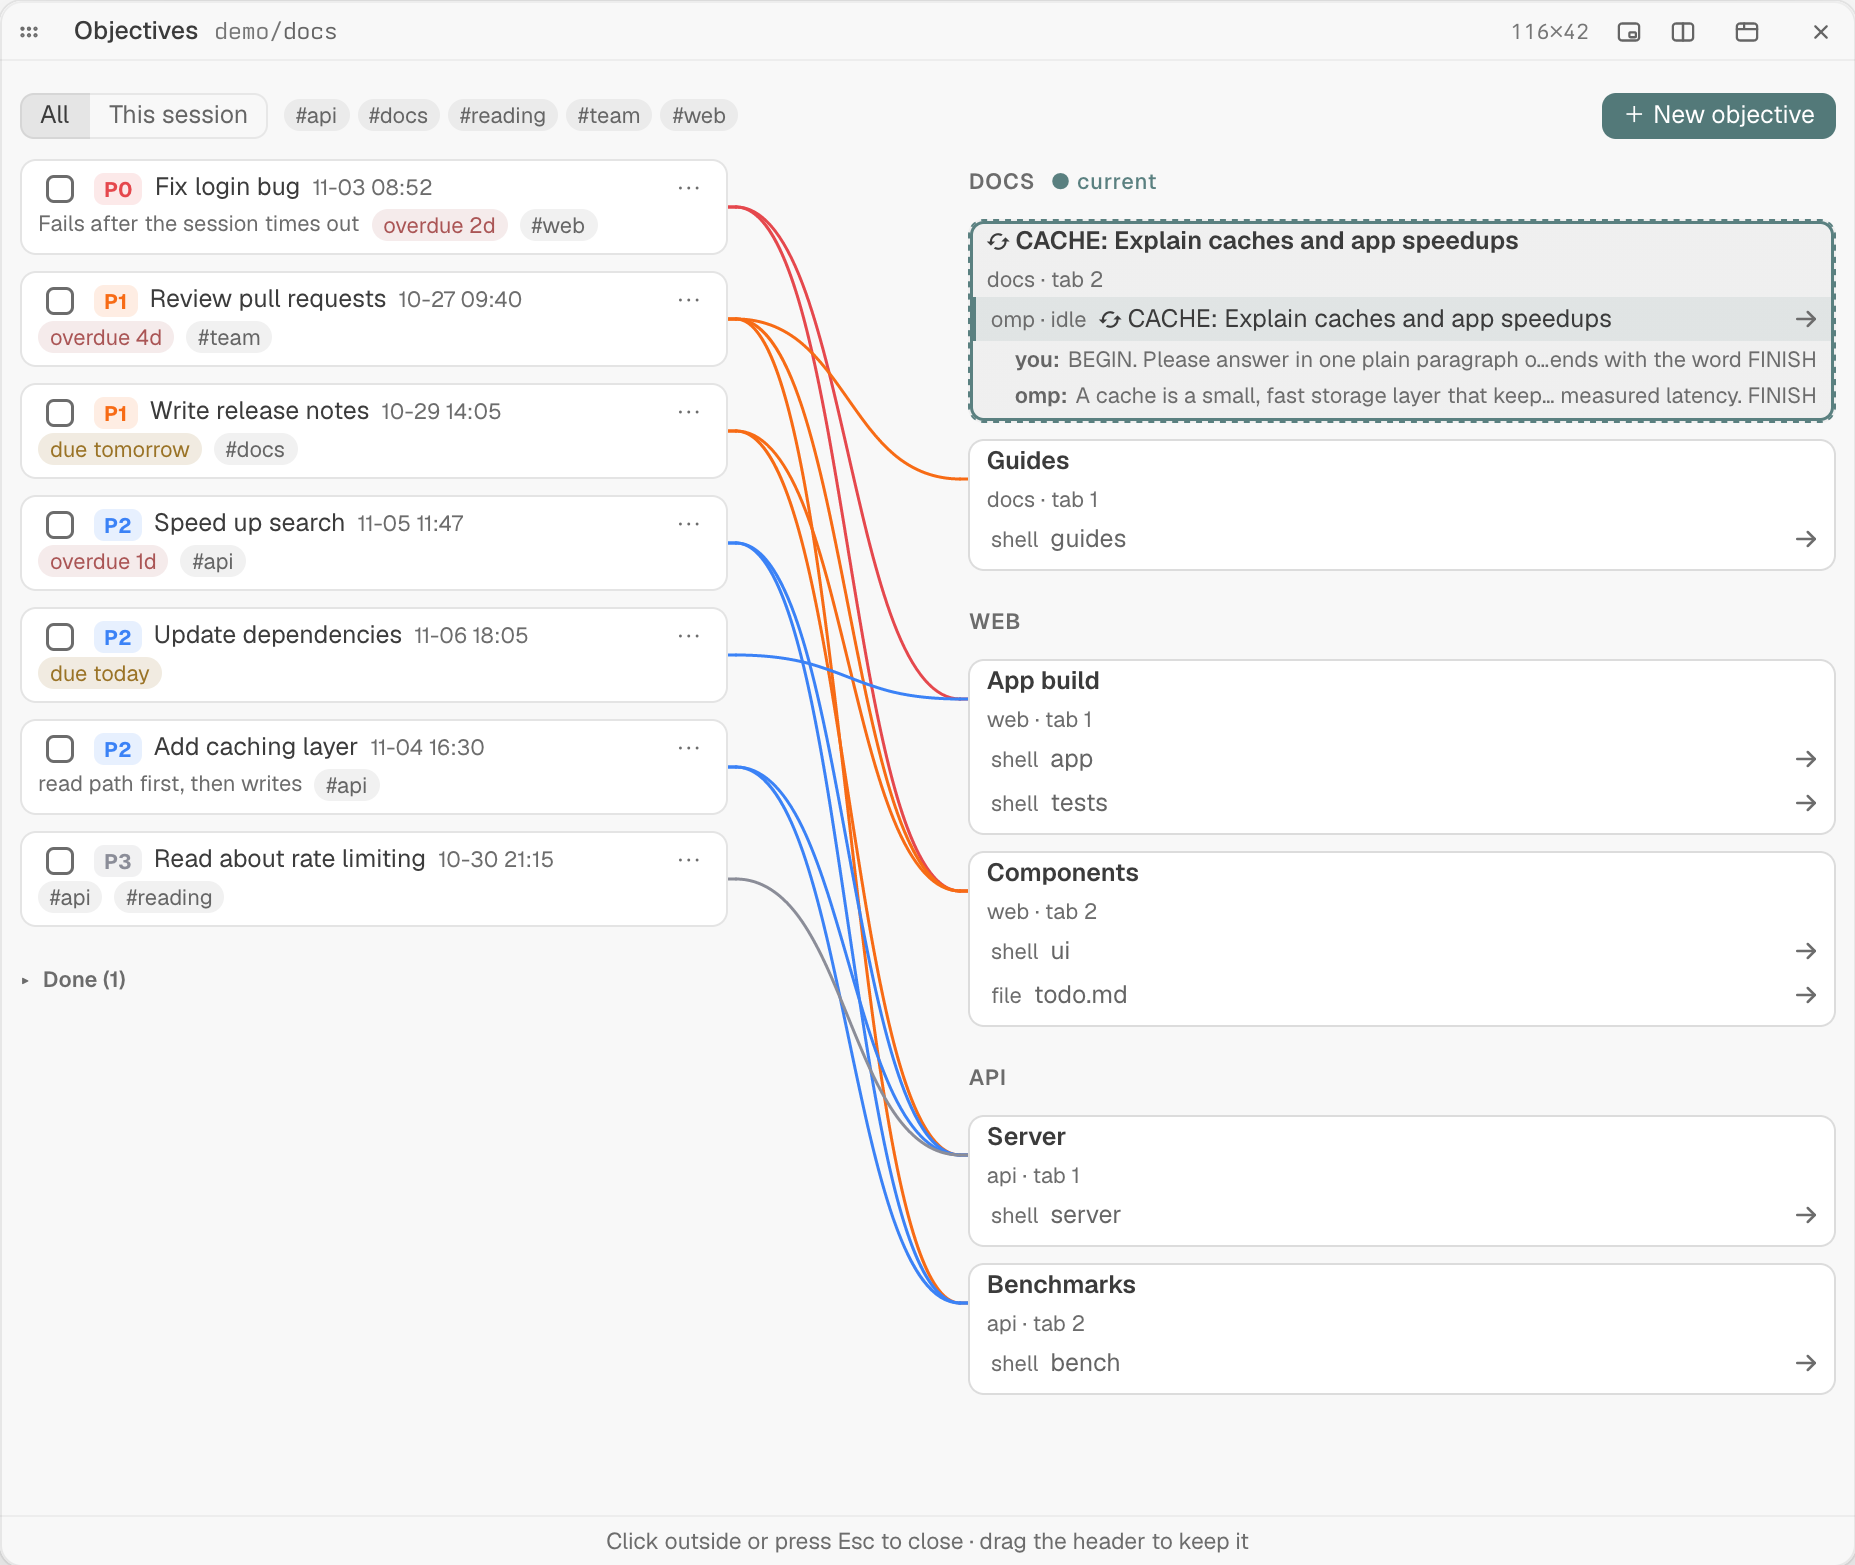
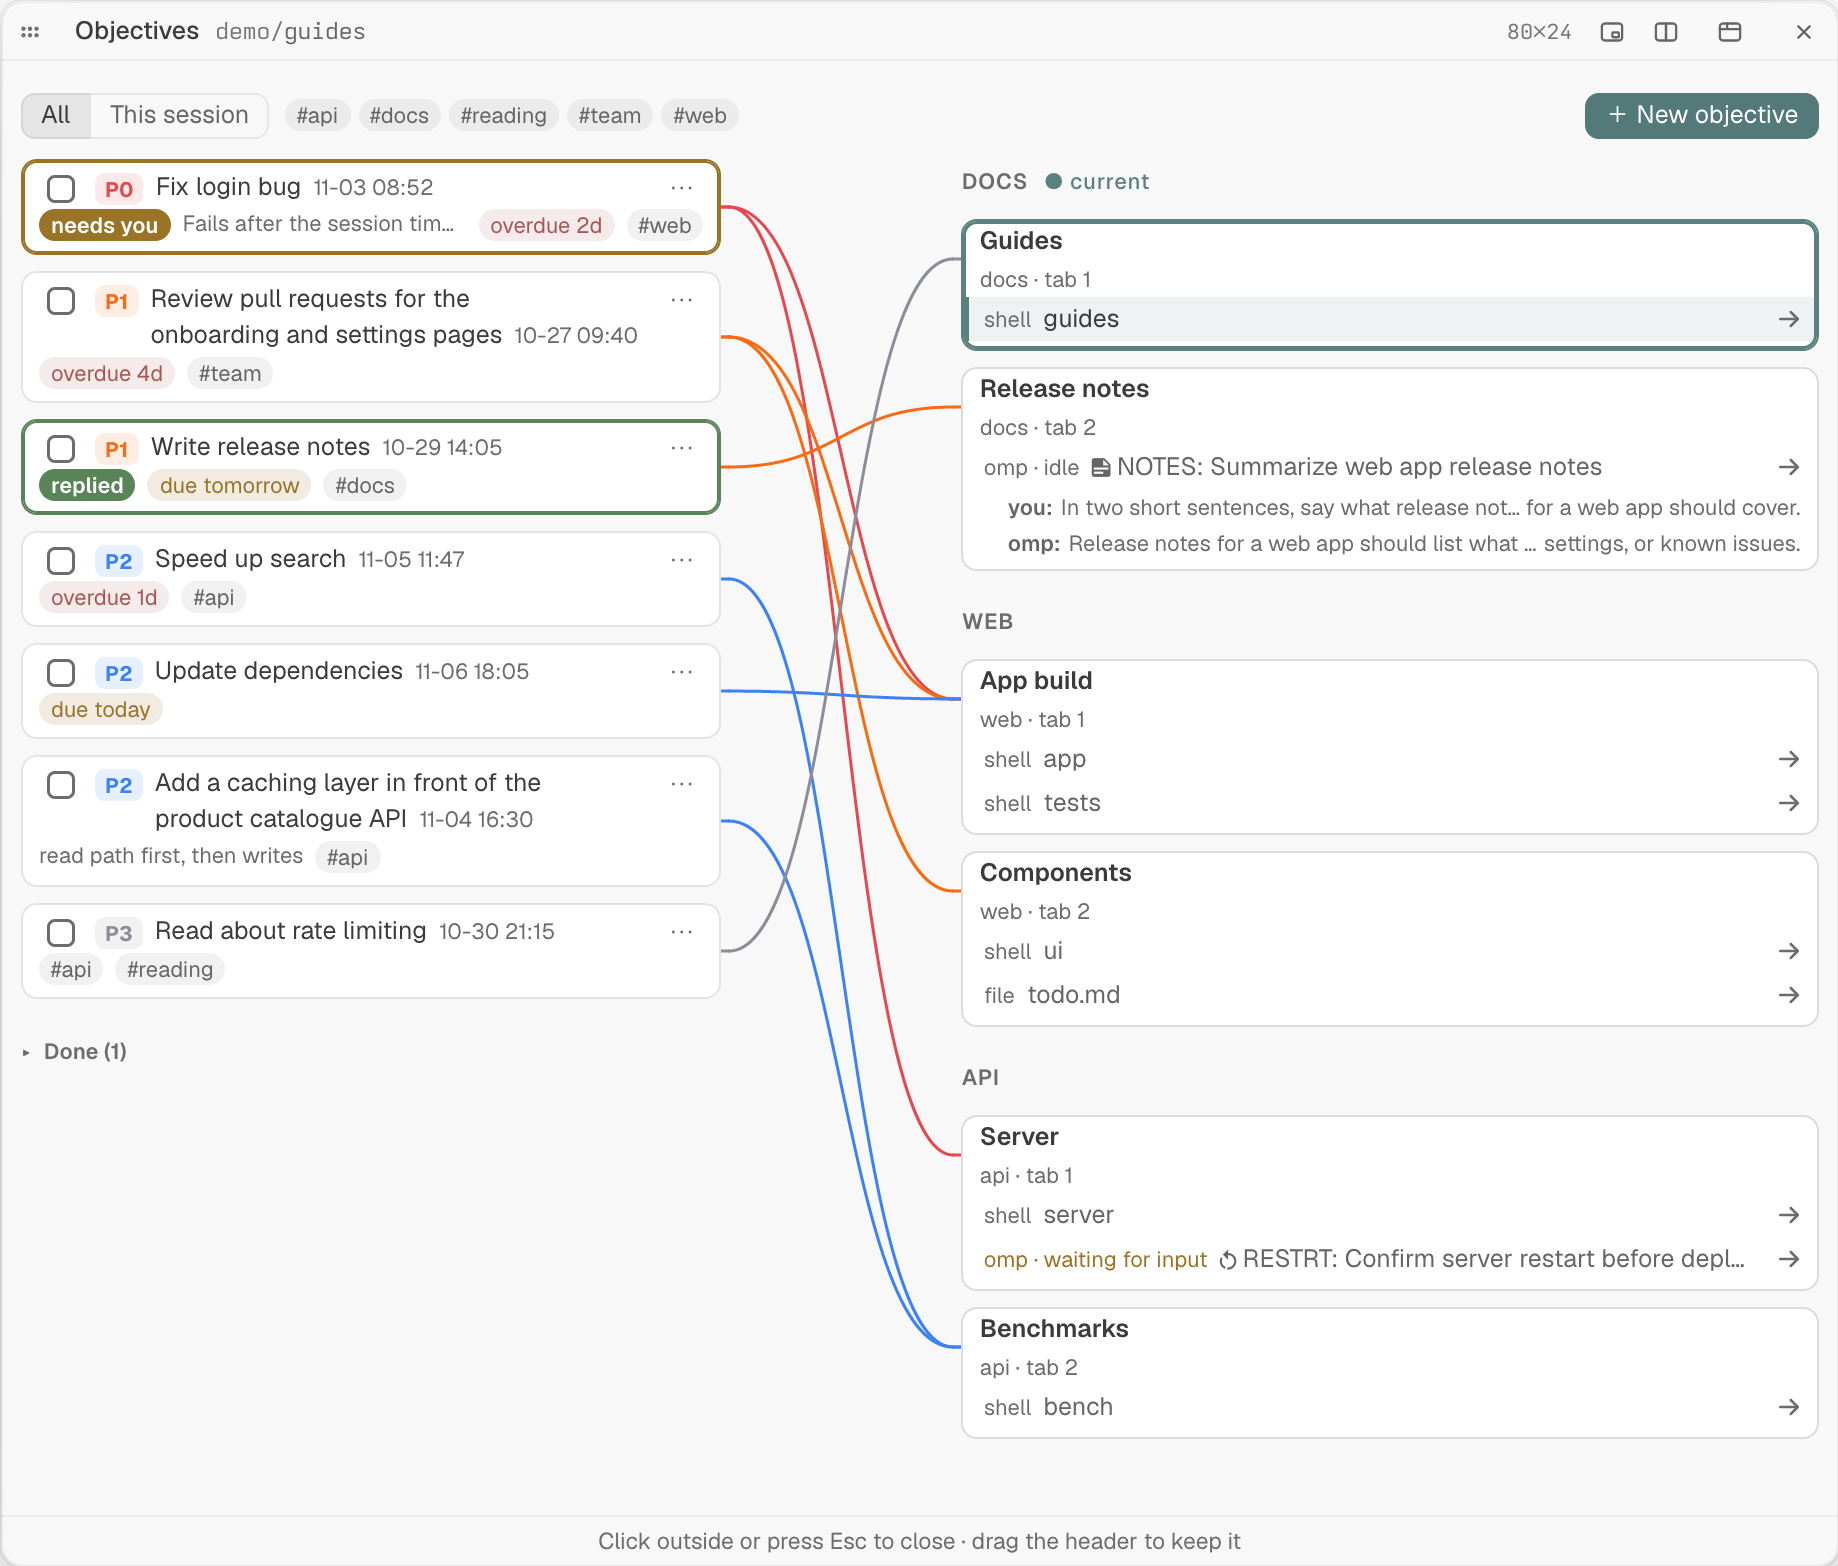
README screenshot shows wrapped titles and the needs you / replied marks

diff --git a/README.md b/README.md
@@ -2,7 +2,7 @@
 
 A [Tern](https://docs.stencil.so/tern) plugin for keeping track of what you are working on across sessions. It keeps one list of objectives and links each one to the tabs where its work happens, shown as a graph: objectives on the left, tabs on the right, a line for every link. Click a tab or pane to jump straight to it, in any session.
 
-![The objectives graph: objectives with priorities, due dates and tags on the left; tabs grouped by session on the right, with a line for each link](docs/graph.png)
+![The objectives graph: objectives with priorities, due dates and tags on the left, two of them with titles wrapped onto two lines; "Fix login bug" ringed in amber with a "needs you" chip, and "Write release notes" in green with "replied"; tabs grouped by session on the right, with a line for each link, an omp chat waiting for input in the Server tab and an open chat row showing "you:" and "omp:"](docs/graph.png)
 
 ## Features
 
